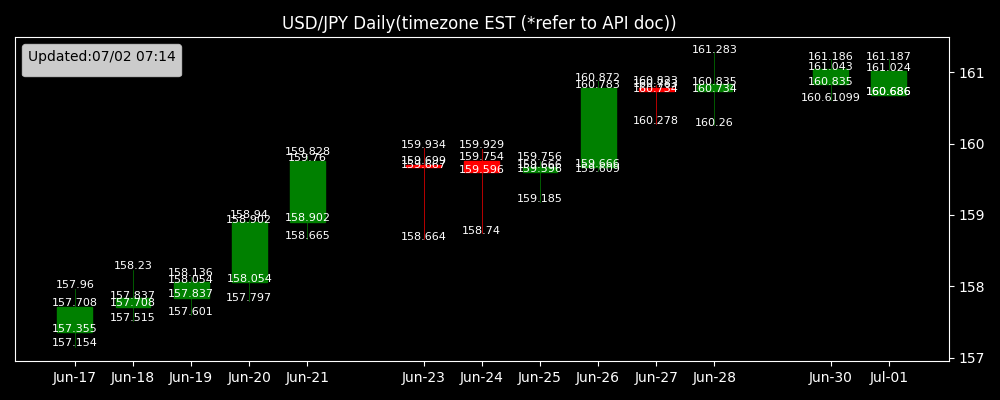
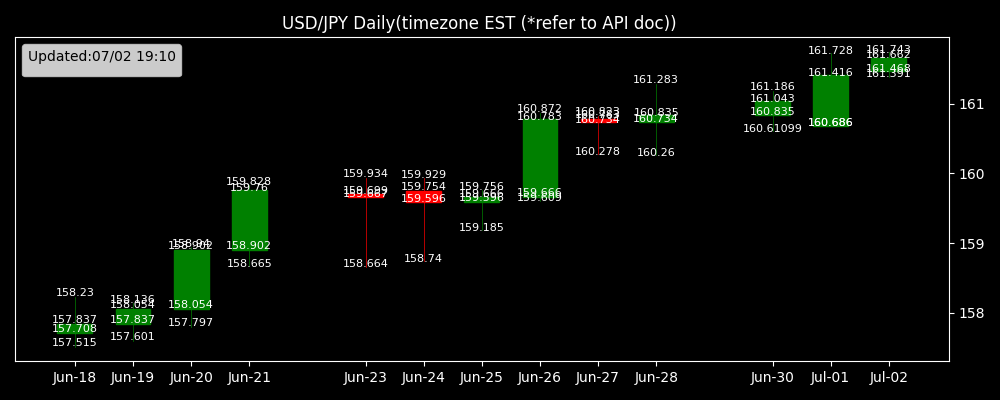
crongenerated

diff --git a/docs/src/dashboard/marketinfo.html b/docs/src/dashboard/marketinfo.html
@@ -14,16 +14,14 @@
     </style>
 </head>
 <body>
-    <h3> 概況 (更新： 07/02 07:14 ) </h3>
-    <p>為替の状況を観察すると、以下のような傾向が見受けられる。
+    <h3> 概況 (更新： 07/02 19:10 ) </h3>
+    <p>現在の為替相場を考慮すると、直近数週間のデータからは上昇トレンドが見受けられる可能性がある。具体的には、6月18日の開値157.708から7月2日の終値161.662まで、継続的な上昇が確認できる。ただし、途中期間に一部の調整が行われている。
 
-6月17日から7月1日まで、通貨ペアの価格は徐々に上昇している。この期間中、価格は157.154から161.187の範囲で動いており、全体として160.6を超える上昇トレンドが見られる。特に6月26日以降、価格は160を超えて比較的安定している。
+例えば、6月24日から6月26日にかけては159.596から160.783への上昇が見られ、一時的な下落と調整が行われ、その後再び上昇トレンドに戻っている。特筆すべきは、6月30日から7月1日にかけての出来高（ボリューム）が顕著に増加している点である。これに関しては、市場の関心が高まっている可能性や、徐々にポジションを増やす参加者が増えていると解釈することもできる。
 
-ニュースによれば、アメリカ中央銀行（FRB）の最近の利上げや、円安傾向にある日本の長期経済政策が市場に影響を与えている可能性がある。また、ヨーロッパ地域における経済指標の改善もこれに寄与しているかもしれない。
+また、様々なニュース情報も市場の動向に影響を与える。例えば、グローバルな経済指標の発表により、市場参加者のリスクアペタイトが変動している可能性もある。さらに、地政学的リスクや主要中央銀行の政策イベントなども注視が必要である。
 
-取引量に関しては、6月27日の約44万1452という高い取引量が目立つが、それ以降は取引量が減少し、比較的落ち着いた取引となっている。この高取引量は、投資家の一時的な興味や市場動向に対する反応が原因である可能性がある。
-
-総括すると、この期間の為替市場では上昇傾向が見られ、一部のニュースや経済指標がその背景にあると考えることができる。しかし、今後の動向を断定することは難しく、市場の変動要因に注視する必要がある。</p>
+総じて、直近の相場は強含みの傾向にあるものの、一部の調整局面も観察されるため、今後の動向については慎重な見極めが求められるかもしれない。</p>
 
     <p>Text generated from ChatGPT API.</p>
 

diff --git a/docs/src/dashboard/forecast_text.html b/docs/src/dashboard/forecast_text.html
@@ -6,21 +6,26 @@
 </head>
 <body>
     <h3>今日の天気 (07-02 Tue)</h3>
-    <p>こんにちは、天気予報士です！今日は2024年7月2日で、東京の天気をお伝えします。
+    <p>### 天気予報（2024年7月2日）
 
-### 天気の概要：
-- **気温**: 一日の気温は23.4°C（朝5時）から最大29.8°C（午後1時ごろ）まで上昇します。
-- **降水**: 数時間の間にわずかな雨（最大0.7mm）が降ることが予測されていますが、大半の時間は降雨なしです。
-- **天気コード**: 天気は一部曇りですが、朝と夕方を中心に晴れ間が広がる見込みです。
+東京（緯度: 35.65, 経度: 139.75）のこの日の天気は概ね以下の通りです：
+- 朝（0:00～6:00）：気温は約24℃、雲が多いです。
+- 午前（6:00～12:00）：晴れたり曇ったりで、気温は24℃から29℃に上昇します。
+- 午後（12:00～18:00）：気温が最高30.5℃まで上がります。一部曇りが見られます。
+- 夜（18:00～24:00）：曇りがちで、気温は24.9℃まで下がります。
 
-### その他の重要情報：
-- **日照時間**: 今日の総日照時間は約7時間22分（26498.98秒）です。
-- **UV指数**: 最大UV指数は7.55です。
+降水量は少なく、一部の時間帯で小雨が予想されますが、全体的にはほとんど降りません。
 
-### 日傘の必要性：
-UV指数が7.55というのは「高い」レベルです。長時間外出される予定がある場合、特に正午前後は日傘や帽子、サングラスなどで紫外線対策をすることを強くおすすめします。
+### 日傘の必要性について
 
-以上です！今日は暑い一日になりそうですので、水分補給を忘れずに。良い一日を！</p>
-    (更新：07/02 07:14)
+#### UV指数
+この日の最大UV指数は 8.2 です。これは「非常に強い」レベルに分類され、紫外線対策が強く推奨されます。
+
+#### 日照時間
+一日の総日照時間は約7時間（25759.75秒）です。晴れ間が多く、強い日差しが予想されます。
+
+#### 結論
+UV指数が高く、日照時間も長いため、日中外出する際には日傘を使用することが強く推奨されます。帽子や日焼け止めなどの他の紫外線対策も併用すると良いでしょう。</p>
+    (更新：07/02 19:09)
 
 </html>
